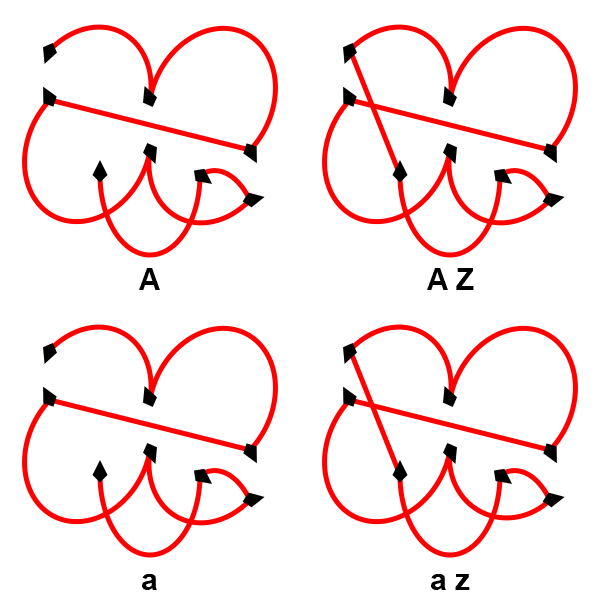
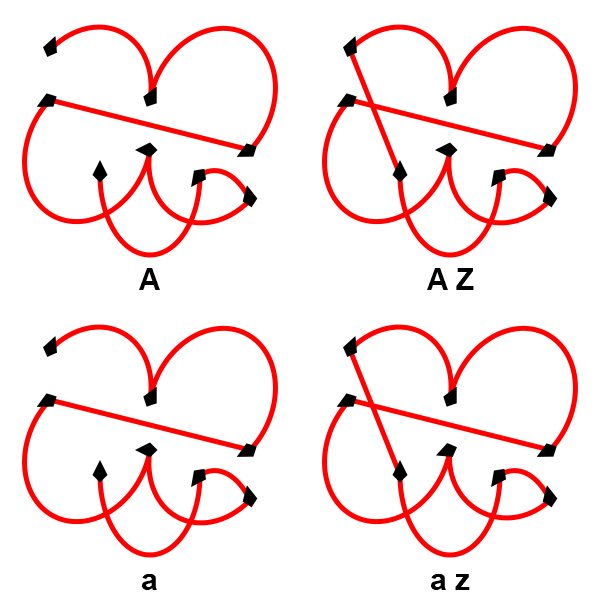
Update testcases

diff --git a/sahara/node_vertices_tests/README.md b/sahara/node_vertices_tests/README.md
@@ -8,8 +8,9 @@ Column explanation:
 
 The rightmost images are visualisations of the `node.vertices` array, which is internally used for the marker positions and angles. For each vertex, the calculated direction of the outgoing path segment is green, and that of the incoming segment (pointing away from it) is purple. Grey means the two overlap.
 
-## Still to fix in AgC/master
-* [ ] Determining marker angles from vertex angles
+## Changes in AgC/master
+* [x] General node.vertices angle fixes
+* [x] Determining marker angles from vertex angles
 * [ ] Elliptic curve angles
 * [ ] Degenerate curve angles
 * [ ] Closepath angles
